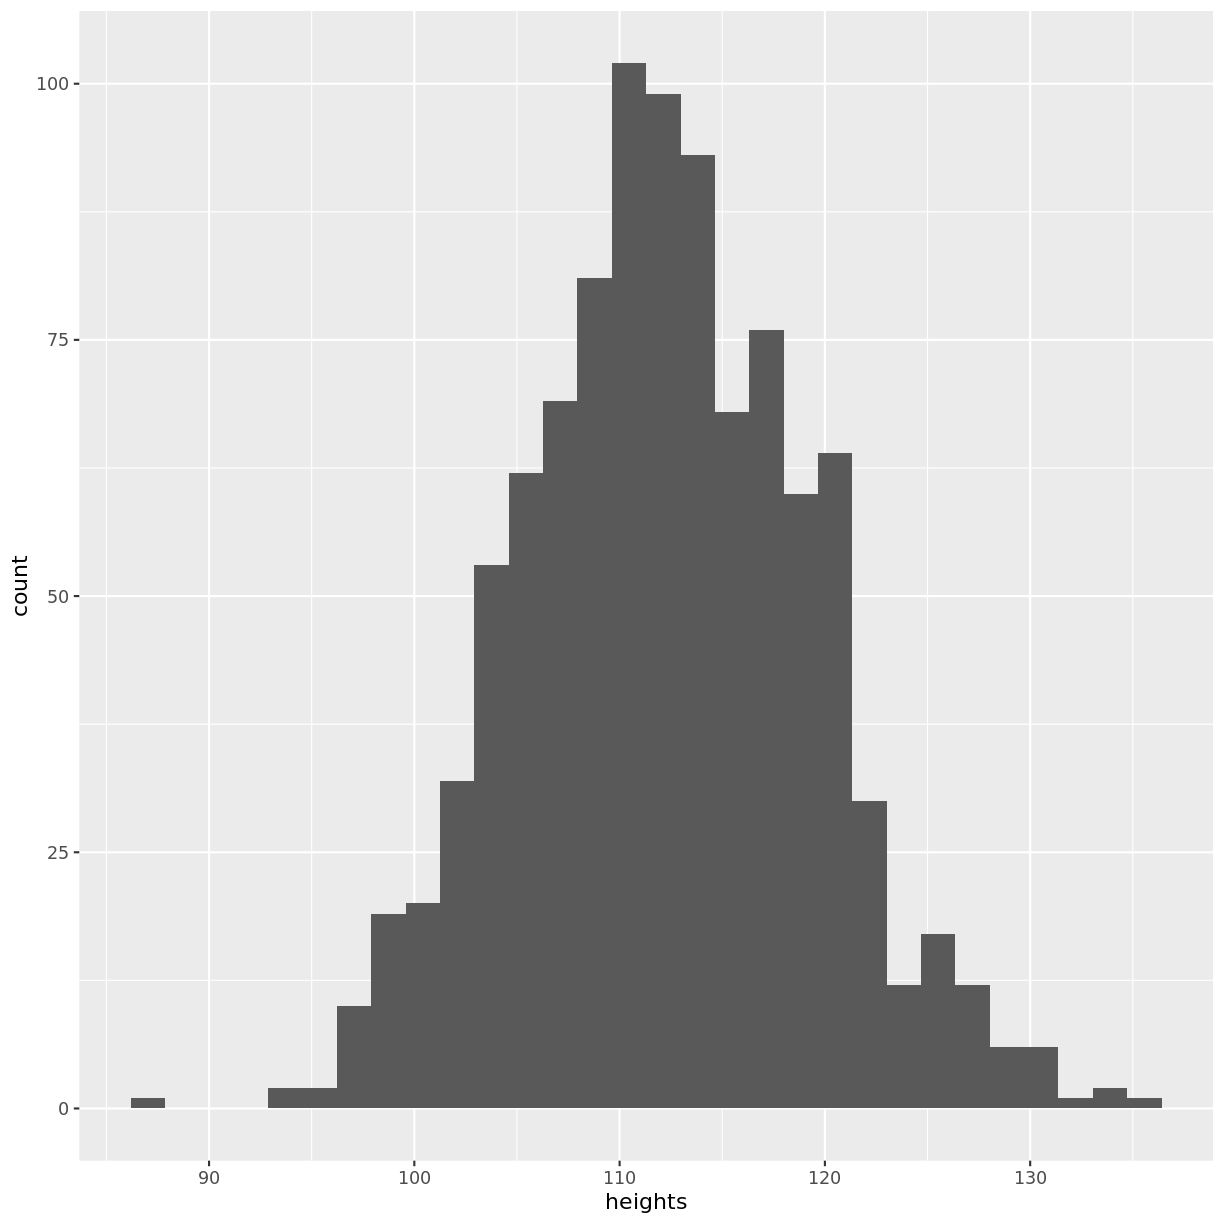
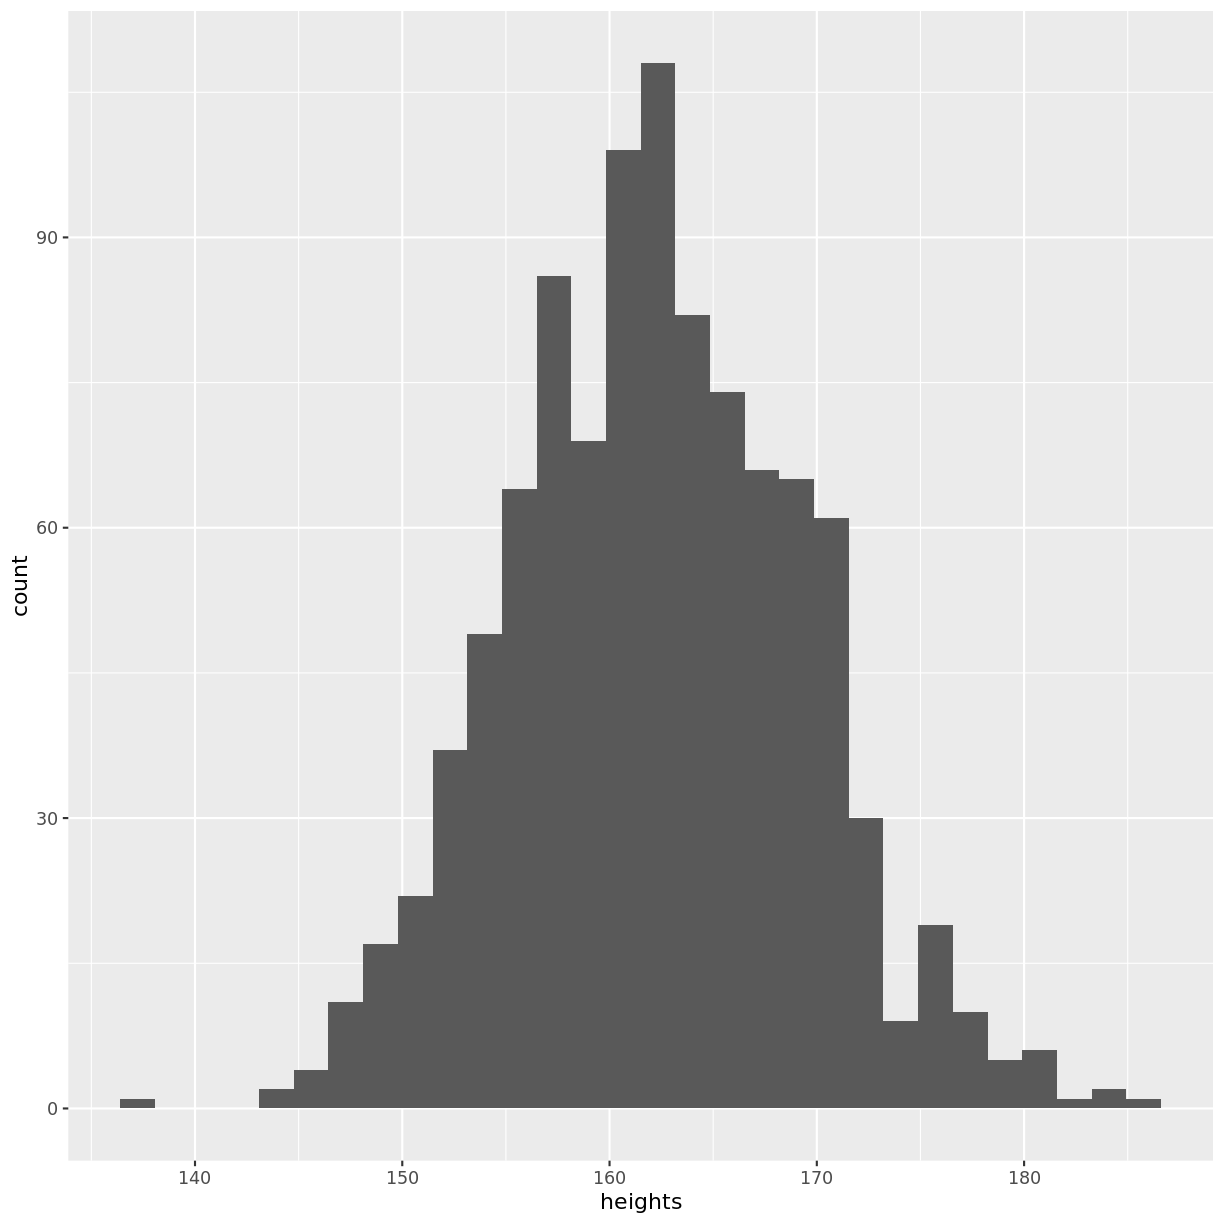
make serve Ailith changes

diff --git a/_episodes/04-prediction.md b/_episodes/04-prediction.md
@@ -7,7 +7,7 @@ objectives:
   - "Predict the mean of one variable through its association with a binary variable."
   - "Predict the mean of one variable through its association with a continuous variable."
 keypoints:
-  - "We can calculate means and confidence intervals for a continous outcome variable, grouped by a binary or continuous explanatory variable. On a small scale, this is an example of a model."
+  - "We can predict the means, and calculate confidence intervals, of a continuous outcome variable grouped by a binary or continuous explanatory variable. On a small scale, this is an example of a model."
 questions:
   - "How can the mean of a continous outcome variable be predicted with a binary explanatory variable?"
   - "How can the mean of a continous outcome variable be predicted with a continous explanatory variable?"
@@ -17,25 +17,24 @@ execises: 10
 
 
 
-In this episode we will be predicting the **mean** of one variable through its
+In this episode we will predict the **mean** of one variable using its
 linear association with another variable. In a way, this will be our first example
 of a *model*: under the assumption that the mean of one variable is associated
-with another variable, we will have the capacity to predict that mean. 
+with another variable, we will be able to predict that mean. 
 
 This episode will bring together the concepts of *mean*, *confidence interval* and
 *association*, covered in the previous episodes. Prediction through linear regression
 will then be formalised in the [next lesson](https://carpentries-incubator.github.io/simple-linear-regression-public-health).
 
-We will be referring to the variable for which we are making predictions as the 
+We will refer to the variable for which we are making predictions as the 
 *outcome* variable. The variable used to make predictions will be referred to
 as the *explanatory* variable. 
 
 ## Mean prediction using a binary explanatory variable
-We will start with using a binary explanatory variable, i.e. a variable which
-can take on one of two values. For example, we may try to predict mean
-systolic blood pressure (`BPSysAve`) by physical activity (`PhysActive`). 
-Physical activity is a binary variable in the NHANES data, as it is coded
-as "Yes" or "No". 
+We will start by using a binary explanatory variable, i.e. a variable which
+can take one of two values. For example, we can try to predict mean
+systolic blood pressure (`BPSysAve`) using physical activity (`PhysActive`). 
+Physical activity is a binary variable in the NHANES data, as it takes one of two values, "Yes" or "No".
 
 Let's first explore the association between systolic blood pressure and 
 physical activity. This can be done using a violin plot, which shows
@@ -55,12 +54,12 @@ dat %>%
 <img src="../fig/rmd-04-BPSysAve PhysActive violin plot-1.png" title="plot of chunk BPSysAve PhysActive violin plot" alt="plot of chunk BPSysAve PhysActive violin plot" width="612" style="display: block; margin: auto;" />
 
 It is hard to tell from the above plot whether the mean systolic blood pressure
-differs across physical activity. Let's calculate the means and 
+differs according to physical activity. Let's calculate the means and 
 confidence intervals. In the code below, we first remove rows with missing 
 values using `drop_na()` from the `tidyr` package. 
 We then group observations by physical
 activity using `group_by()`. We then calculate the mean, standard error and
-confidence interval bounds inside `summarise()`.
+confidence interval bounds using `summarise()`.
 
 
 ~~~
@@ -113,7 +112,7 @@ dat %>%
 <img src="../fig/rmd-04-BPSysAve PhysActive violin with mean-1.png" title="plot of chunk BPSysAve PhysActive violin with mean" alt="plot of chunk BPSysAve PhysActive violin with mean" width="612" style="display: block; margin: auto;" />
 
 On a small scale, we have created a model of *mean* systolic blood pressure
-by physical activity. Hereby we have obtained mean estimates and confidence 
+by physical activity. In doing so, we have obtained mean estimates and confidence 
 intervals for systolic blood pressure as a function of physical activity. 
 
 > ## Exercise
@@ -124,7 +123,8 @@ intervals for systolic blood pressure as a function of physical activity.
 > A) Create a violin plot of total cholesterol by smoking status.  
 > B) Calculate the mean total cholesterol by smoking status, along with the 95% confidence 
 > interval for this mean estimate.  
-> C) Overlay these mean estimates and their confidence intervals onto the violin plot.
+> C) Overlay these mean estimates and their confidence intervals onto the violin plot.   
+> D) What can you conclude about the association between total HDL cholesterol and smoking?
 > 
 > > ## Solution
 > > A) 
@@ -151,8 +151,20 @@ intervals for systolic blood pressure as a function of physical activity.
 > >     se = sd(TotChol) / sqrt(n()),
 > >     lower_CI = mean - 1.96 * se,
 > >     upper_CI = mean + 1.96 * se)
+> > means
 > > ~~~
 > > {: .language-r}
+> > 
+> > 
+> > 
+> > ~~~
+> > # A tibble: 2 x 6
+> >   SmokeNow  mean     n     se lower_CI upper_CI
+> >   <fct>    <dbl> <int>  <dbl>    <dbl>    <dbl>
+> > 1 No        5.05  1495 0.0293     5.00     5.11
+> > 2 Yes       5.06  1246 0.0329     5.00     5.13
+> > ~~~
+> > {: .output}
 > > 
 > > C) 
 > > 
@@ -170,13 +182,16 @@ intervals for systolic blood pressure as a function of physical activity.
 > > {: .language-r}
 > > 
 > > <img src="../fig/rmd-04-FEV1 smokenow violin with mean-1.png" title="plot of chunk FEV1 smokenow violin with mean" alt="plot of chunk FEV1 smokenow violin with mean" width="612" style="display: block; margin: auto;" />
+> > 
+> > D)
+> > In our data, it doesn't appear that the level of total HDL cholesterol is different between people who smoke and people who don't.
 > {: .solution}
 {: .challenge}
 
 ## Mean prediction using a continuous explanatory variable
 Now we will expand the approach learnt above to prediction using a 
 continuous explanatory variable. We will try to predict
-Weight from Height in adult participants. 
+Weight using Height of adult participants. 
 
 Let's first explore the association between Height and Weight. To make grouping
 observations easier, we will round Height to the nearest integer
@@ -196,7 +211,7 @@ dat %>%
 
 <img src="../fig/rmd-04-explore association rounded Height and Weight-1.png" title="plot of chunk explore association rounded Height and Weight" alt="plot of chunk explore association rounded Height and Weight" width="612" style="display: block; margin: auto;" />
 
-Now we can calculate the mean Weight by Height:
+Now we can calculate the mean Weight for each Height:
 
 
 ~~~
@@ -236,20 +251,20 @@ dat %>%
 
 We see that as the positive correlation coefficient suggested, mean
 Weight indeed increases with Height. The outer confidence intervals are much
-wider than the central confidence intervals, because many less observations
+wider than the central confidence intervals, because many fewer observations
 were used to estimate the outer means. There are also a few red points
-without a confidence interval, because those means were estimated with single
-observations only. 
+without a confidence interval, because those means were estimated using only a single
+observation. 
 
 > ## Exercise
 > In this exercise you will explore the association between total FEV1 (`FEV1`) and
 > age (`Age`). Ensure that you drop NAs from `FEV1` by including
-> `drop_na(FEV1)` in your piped commands. Also make sure to filter for adult
+> `drop_na(FEV1)` in your piped commands. Also, make sure to filter for adult
 > participants by including `filter(Age > 17)`.
 > 
 > A) Create a scatterplot of FEV1 as a function of age.   
 > B) Calculate the mean FEV1 by age, along with the 95% confidence 
-> interval for these mean estimates.  
+> interval for each of these mean estimates.  
 > C) Overlay these mean estimates and their confidence intervals onto the scatterplot.
 > 
 > > ## Solution

diff --git a/_episodes/02-estimation.md b/_episodes/02-estimation.md
@@ -4,8 +4,8 @@
 source: Rmd
 title: "Estimating the variation around the mean: standard errors and confidence intervals"
 objectives:
-  - "Explore the difference between a population parameter and sample estimates through simulation from a normal distribution."
-  - "Define the 95% confidence interval through simulation from a normal distribution."
+  - "Explore the difference between a population parameter and sample estimates by simulating data from a normal distribution."
+  - "Define the 95% confidence interval by simulating data from a normal distribution."
 keypoints:
   - "Sample means are expected to differ from the population mean, on average, by the standard error."
   - "95% of 95% confidence intervals are expected to capture the population mean. In practice, this means we are fairly confident that a 95% confidence interval will contain the population mean, but we do not know for sure."
@@ -37,8 +37,8 @@ the *standard error*. The standard error quantifies the average difference
 between a sample mean and the population mean. 
 
 For example, let's say we collected 1000 observations of female heights in
-the US, to estimate the mean height. The standard error of this estimate 
-would be 0.22 cm. Therefore, on average, we expect
+the US, to estimate the mean height. The standard error of this estimate in this case is 
+0.22 cm. Therefore, on average, we expect
 means estimated in this way to differ from the population mean by 0.22 cm.
 
 The standard error is calculated using the standard deviation and the sample size:
@@ -57,9 +57,10 @@ This interval equals, for large samples:
 
 $$[E(y) - 1.96 \times \text{se}(y); E(y) + 1.96 \times \text{se}(y)],$$
 
-i.e. the mean +- 1.96 times the standard error.
+i.e. the mean +/- 1.96 times the standard error.
 
 The definition of the 95% confidence interval is a bit convoluted: 
+
 *95% of 95% confidence intervals are expected to contain the true population mean*.
 
 Imagine we were to obtain 100 samples of female heights in the US, with each
@@ -73,11 +74,11 @@ What does this mean in practice? When we calculate a 95% confidence interval,
 we are fairly confident that it will contain the true population mean, but
 we cannot know for sure. 
 
-Let's take a look at how we would calculate the 95% confidence interval in R.
+Let's take a look at how we can calculate the 95% confidence interval in R.
 First, we sample 1000 observations of female heights and calculate the mean, 
 as in the previous episode. Then, we calculate the standard error as the
 standard deviation divided by the square root of the sample size.
-Finally, the 95% confidence interval is given by the mean +- 1.96
+Finally, the 95% confidence interval is given by the mean +/- 1.96
 times the standard error. Note that your CI will differ slightly from the
 one shown below, as `rnorm()` obtains random samples. 
 
@@ -179,7 +180,7 @@ action, by simulating 100 data sets of 1000 female heights.
 
 First, we create a tibble for our means and confidence intervals.
 We name this tibble `means` and create empty columns for the sample IDs,
-mean heights, the lower bound of the confidence intervals and the higher
+mean heights, the lower bound of the confidence intervals and the upper
 bound of the confidence intervals. 
 
 
@@ -251,7 +252,7 @@ ggplot(means, aes(x = meanHeight, y = sampleID, colour = capture)) +
 
 <img src="../fig/rmd-02-plot heights confidence intervals-1.png" title="plot of chunk plot heights confidence intervals" alt="plot of chunk plot heights confidence intervals" width="612" style="display: block; margin: auto;" />
 
-In this instance, two out of 100 95% confidence intervals did not capture
+In this instance, 2 out of 100 95% confidence intervals did not capture
 the population mean. If you run the above code multiple times, you will
 discover that there is variation in the number of confidence intervals
 that capture the population mean. On average, 5 out of 100 95% confidence
@@ -260,11 +261,11 @@ intervals will not capture the population mean.
 > ## Exercise
 > A) Given the distribution of systolic blood pressure, with a mean of 112 mmHg
 > and a standard deviation of 10 mmHg, simulate 100 data sets of 2000 observations
-> each. For each sample, store the sample ID, mean systolic blood pressure the 
+> each. For each sample, store the sample ID, mean systolic blood pressure and the 
 > 95% confidence interval in a tibble.  
 > B) Create an extra column in the tibble, indicating for each confidence
 > interval whether the original mean of 112 mmHg was captured.  
-> C) Plot the mean values alongside their 95% confidence intervals. How
+> C) Plot the mean values and their 95% confidence intervals. Add a line to show the population mean. How
 > many of your 95% confidence intervals do not contain the true population 
 > mean of 112 mmHg? 
 > 

diff --git a/_episodes/03-association.md b/_episodes/03-association.md
@@ -5,28 +5,28 @@ source: Rmd
 title: "Visualising and quantifying linear associations"
 objectives:
   - "Explore whether two variables appear to be associated using a scatterplot."
-  - "Calculate the size of an association between two variables using Pearson’s correlation."
+  - "Calculate the size of a linear association between two variables using Pearson’s correlation."
 keypoints:
   - "Scatterplots allow us to visually check the linear association between two variables."
-  - "Pearsons correlation coefficient allows us to quantify the scale of a linear association."
+  - "Pearson's correlation coefficient allows us to quantify the size of a linear association."
 questions:
-  - "How is the linear association between two variables checked visually?"
-  - "How is the scale of a linear associations quantified?"
+  - "How can we visualise the linear association between two variables?"
+  - "How can we quantify the size of a linear association?"
 teaching: 10
 execises: 10
 ---
 
 
 
-In this episode we will learn how to check whether two variables appear to have
-a linear association. This will allow us to use one variable to predict
-the mean of another variable in the next episode, when an association exists.
+In this episode we will learn how to check whether two variables are linearly associated. 
+This will allow us to use one variable to predict the mean of another variable in the 
+next episode, when an association exists.
 
 ## Visually checking for a linear association
-The first way to check for a linear association is through a scatterplot.
+The first way to check for a linear association is by using a scatterplot.
 For example, below we create a scatterplot of adult Weight vs. Height.
 We subset our data (`dat`) for adult participants using `filter()`, after which
-we specify the x and y axes in `ggplot()` and call for a scatterplot using
+we specify the x and y axes in `ggplot()` and make a scatterplot using
 `geom_point()`. Note that `dat` is loaded into the environment by following
 the- instructions on the 
 [setup](https://carpentries-incubator.github.io/statistical-thinking-public-health/setup.html) page.
@@ -86,7 +86,7 @@ and an absence of a linear association.
 {: .challenge}
 
 ## Quantifying the size of a linear association
-We can quantify the magnitude of a linear association using Person's correlation
+We can quantify the magnitude of a linear association using Pearson's correlation
 coefficient. This metric ranges from -1 to 1. 
 
 * A value of -1 indicates a perfect negative linear association. 
@@ -95,8 +95,8 @@ coefficient. This metric ranges from -1 to 1.
 
 Let's see these in practice by calculating the correlation coefficient
 for the associations that we explored above. To calculate the correlation
-coefficient for Weight and Height, we again select adult participants using 
-`filter()`. Then, we calculate the correlation inside a call to `summarise()`.
+coefficient between Weight and Height, we again select adult participants using 
+`filter()`. Then, we calculate the correlation using the `summarise()` function.
 The correlation is given by the `cor()` function, where `use = "complete.obs"`
 ensures that participants for which Weight or Height data is missing are ignored. 
 
@@ -122,6 +122,7 @@ linear association that we saw above.
 > ## Exercise
 > A) Calculate the correlation coefficient for urine flow (`UrineFlow1`)
 > and age (`Age`) in adult participants. Does this agree with the scatterplot?
+> 
 > B) Calculate the correlation coefficient for FEV1 (`FEV1`)
 > and age (`Age`) in adult participants. Does this agree with the scatterplot?
 > > ## Solution

diff --git a/_episodes/01-describeVariable.md b/_episodes/01-describeVariable.md
@@ -19,7 +19,7 @@ execises: 10
 
 Often when doing statistics, we have a variable of interest, for which we want to
 estimate particular properties. A variable will follow a *distribution*, which shows
-what values a variable can take on and how likely these are to occur.
+what values a variable can take and how likely these are to occur.
 In this episode we will learn to estimate and 
 interpret the mean, variance and standard deviation of a variable's distribution. 
 These values allow us to estimate the average of a variable in the population and the 
@@ -28,8 +28,8 @@ variation around that average.
 Before discussing the definitions of these values, let's look at an example. The
 heights of people of the female sex in the US approximately follow a distribution 
 with a mean of 162 cm and a standard deviation of 6.89 cm. 
-The distribution is shown below. Values on the x-axis with a greater Density on the
-y-axis have a higher chance of occuring. So 162 cm is most likely to occur, while
+The distribution is shown below. Values on the x-axis with a greater density on the
+y-axis have a higher chance of occuring. So a height of 162 cm is most likely to occur, while a height of
 140 cm is very unlikely to occur. 
 
 <img src="../fig/rmd-01-height density plot-1.png" title="plot of chunk height density plot" alt="plot of chunk height density plot" width="612" style="display: block; margin: auto;" />
@@ -44,7 +44,11 @@ The distribution of female heights has a few properties of interest, which we ca
 ## The mean
 The *mean* of the distribution is the average of all the values that make up that distribution. In the case of female heights in the US, the mean is 162 cm. Therefore, the average height of a US female is 162 cm. We also expect the mean of our sample to equal 162 cm.
 
-The mean is also known as the *expectation* of a variable, $E()$. The expectation of female heights is expressed as $E(y)$. 
+The mean is also known as the *expectation* of a variable, $E()$. The expectation of female heights is expressed as $E(y)$:
+
+$$E(y) = \frac{1}{n} \left( \sum_{i=1}^n y_{i} \right)$$
+
+where $n = 1000$.
 
 ## The variance
 The *variance* is the average *squared* difference between values in the distribution 
@@ -89,7 +93,7 @@ with the column named `heights`.
 
 
 ~~~
-sample <- tibble(heights = rnorm(1000, mean = 112, sd = 6.89))
+sample <- tibble(heights = rnorm(1000, mean = 162, sd = 6.89))
 ~~~
 {: .language-r}
 
@@ -125,7 +129,7 @@ meanHeight
 
 
 ~~~
-[1] 112.2838
+[1] 162.2838
 ~~~
 {: .output}
 
@@ -206,8 +210,16 @@ sqrt(variance)
 > > 
 > > ~~~
 > > meanBP <- mean(sample$bloodPressure)
+> > meanBP
 > > ~~~
 > > {: .language-r}
+> > 
+> > 
+> > 
+> > ~~~
+> > [1] 112.4119
+> > ~~~
+> > {: .output}
 > > 
 > > C) The variance equals the average of the squared differences between the mean of the distribution and the
 > > observed values. This can be calculated as follows:
